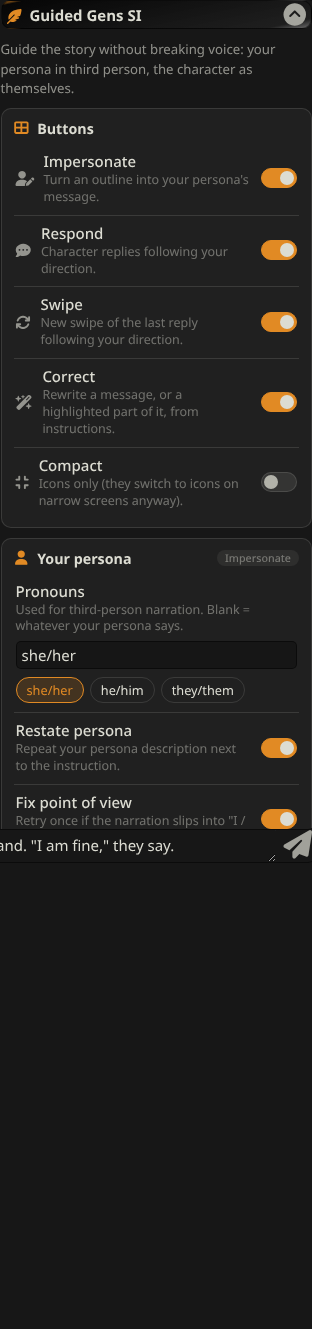
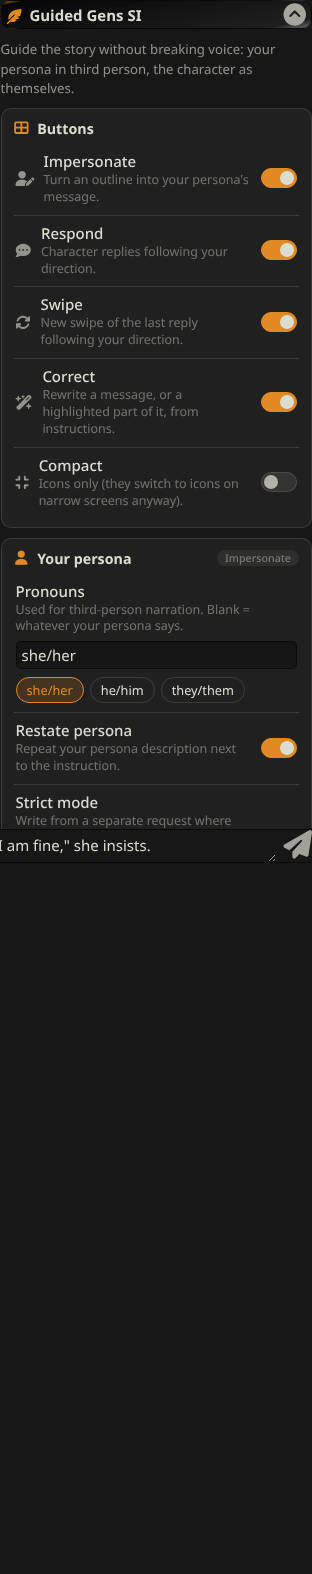
Force impersonation to stay on the user's side
Add Strict mode: a separate generateRaw request (Chat Completion) where
the model is told it only writes for {{user}}, with the character card,
scenario and world info as reference and the chat as a transcript, plus
an optional prefill of the persona's name. Detect results that read
like {{char}}'s reply (second-person narration, character openings,
character-dominated narration) and retry them once in strict mode.

Claude-Session: https://claude.ai/code/session_01W9Q53hTj4MAFdCsrz4bzBP

diff --git a/index.js b/index.js
@@ -1,12 +1,16 @@
 import {
+    buildTranscript,
     cleanImpersonation,
     collectVoiceSamples,
     countFirstPerson,
     fillTemplate,
     formatSamples,
     hasPovSlip,
+    joinPrefill,
+    looksLikeCharReply,
 } from './src/text.js';
 import {
+    CHAR_RETRY_NOTE,
     DEFAULT_CORRECT,
     DEFAULT_CORRECT_SELECTION,
     DEFAULT_GUIDE,
@@ -14,6 +18,8 @@ import {
     IMPERSONATE_DIRECTION_EMPTY,
     IMPERSONATE_DIRECTION_WITH_INPUT,
     POV_RETRY_NOTE,
+    STRICT_STORY,
+    STRICT_SYSTEM,
 } from './src/prompts.js';
 import { openCorrections } from './src/corrections.js';
 import { mountSettings, renderBar, setBusy, setImpersonateUndo, setStatus } from './src/ui.js';
@@ -37,6 +43,8 @@ const DEFAULTS = Object.freeze({
     userVoiceSamples: 5,
     charVoiceSamples: 4,
     povRetry: true,
+    strictImpersonate: false,
+    strictPrefillName: false,
     guideDepth: 0,
     guideRole: 'system',
     impersonateTemplate: '',
@@ -110,7 +118,7 @@ function syncImpersonateButton() {
 
 // --- Impersonate (third person) ---------------------------------------------
 
-function buildImpersonatePrompt(input, { retry = false } = {}) {
+function buildImpersonatePrompt(input, { reason = null } = {}) {
     const s = settings();
     const c = ctx();
 
@@ -131,7 +139,8 @@ function buildImpersonatePrompt(input, { retry = false } = {}) {
         pronouns,
         input: input.trim(),
     });
-    if (retry) prompt += fillTemplate(POV_RETRY_NOTE, { pronouns });
+    if (reason === 'pov') prompt += fillTemplate(POV_RETRY_NOTE, { pronouns });
+    if (reason === 'char') prompt += CHAR_RETRY_NOTE;
 
     return substitute(prompt);
 }
@@ -165,6 +174,78 @@ async function runImpersonation(prompt) {
     return cleanImpersonation(textarea().value, c.name1, otherSpeakerNames());
 }
 
+// Strict mode is only possible with Chat Completion; Text Completion impersonation
+// already ends the prompt with "{{user}}:", which keeps the model on the user's side.
+const canUseStrict = () => ctx().mainApi === 'openai';
+
+/** Character card, other names and world info, as reference for strict mode. */
+async function strictReference() {
+    const c = ctx();
+    let fields = {};
+    try {
+        fields = c.getCharacterCardFields?.() ?? {};
+    } catch {
+        // Older SillyTavern: fall back to the raw card below.
+    }
+    const character = c.characters[c.characterId];
+    const description = fields.description ?? character?.description ?? '';
+    const personality = fields.personality ?? character?.personality ?? '';
+    const scenario = fields.scenario ?? character?.scenario ?? '';
+
+    const parts = [];
+    if (description.trim()) parts.push(`About ${c.name2} (reference only; never write as them):\n${description.trim()}`);
+    if (personality.trim()) parts.push(`${c.name2}'s personality: ${personality.trim()}`);
+    if (scenario.trim()) parts.push(`Scenario: ${scenario.trim()}`);
+    if (c.groupId) parts.push(`Other characters in the story: ${otherSpeakerNames().join(', ')}.`);
+
+    try {
+        const chatForWI = c.chat.filter(m => !m.is_system).map(m => `${m.name}: ${m.mes}`).reverse();
+        const wi = await c.getWorldInfoPrompt?.(chatForWI, c.maxContext, true, {
+            personaDescription: fields.persona ?? '',
+            characterDescription: description,
+            characterPersonality: personality,
+            characterDepthPrompt: '',
+            scenario,
+            creatorNotes: '',
+        });
+        if (wi?.worldInfoString?.trim()) parts.push(`World details:\n${wi.worldInfoString.trim()}`);
+    } catch (error) {
+        console.warn(LOG, 'World info skipped in strict mode', error);
+    }
+    return parts.length ? `\n${parts.join('\n\n')}\n` : '';
+}
+
+/** Impersonation from a separate request where the model never plays {{char}}. */
+async function runStrictImpersonation(prompt) {
+    const c = ctx();
+    const system = substitute(fillTemplate(STRICT_SYSTEM, { card: await strictReference() }));
+    const responseTokens = Number(c.chatCompletionSettings?.openai_max_tokens) || 500;
+    // About 3.2 characters per token, leaving room for the reply and the instructions.
+    const budget = Math.max(4000, ((Number(c.maxContext) || 8192) - responseTokens - 1000) * 3.2 - system.length - prompt.length);
+    const story = fillTemplate(STRICT_STORY, { transcript: buildTranscript(c.chat, budget) });
+    const prefill = settings().strictPrefillName ? c.name1 : '';
+
+    setInput('');
+    const output = await c.generateRaw({
+        prompt: [{ role: 'user', content: story + prompt }],
+        systemPrompt: system,
+        prefill,
+    });
+    return cleanImpersonation(joinPrefill(prefill, output), c.name1, otherSpeakerNames());
+}
+
+function impersonationSlip(text) {
+    if (!text) return null;
+    if (looksLikeCharReply(text, ctx().name1, otherSpeakerNames())) return 'char';
+    if (hasPovSlip(text)) return 'pov';
+    return null;
+}
+
+function slipScore(text) {
+    if (!text) return Infinity;
+    return (looksLikeCharReply(text, ctx().name1, otherSpeakerNames()) ? 100 : 0) + countFirstPerson(text);
+}
+
 async function guidedImpersonate() {
     const current = textarea().value;
 
@@ -178,17 +259,25 @@ async function guidedImpersonate() {
 
     await exclusive('ggsi_impersonate', async () => {
         outlineBeforeImpersonation = current;
-        try {
-            let result = await runImpersonation(buildImpersonatePrompt(current));
+        const s = settings();
+        const c = ctx();
+        const attempt = ({ strict, reason = null }) => {
+            const prompt = buildImpersonatePrompt(current, { reason });
+            return strict ? runStrictImpersonation(prompt) : runImpersonation(prompt);
+        };
 
-            if (result && settings().povRetry && hasPovSlip(result)) {
-                console.info(LOG, 'Impersonation slipped into first person; retrying once.');
-                setStatus('Fixing point of view…');
-                const retry = await runImpersonation(buildImpersonatePrompt(current, { retry: true }));
-                if (retry && countFirstPerson(retry) < countFirstPerson(result)) result = retry;
-                if (hasPovSlip(result)) {
-                    notify('warning', 'The model kept slipping into first person. You may want to edit or retry.');
-                }
+        try {
+            const strict = s.strictImpersonate && canUseStrict();
+            let result = await attempt({ strict });
+            let slip = impersonationSlip(result);
+
+            if (slip && s.povRetry) {
+                console.info(LOG, `Impersonation slipped (${slip}); retrying once.`);
+                setStatus(slip === 'char' ? `Keeping it as ${c.name1}…` : 'Fixing point of view…');
+                // A reply written as {{char}} is retried in strict mode, which is much harder to derail.
+                const retry = await attempt({ strict: canUseStrict() && (strict || slip === 'char'), reason: slip });
+                if (slipScore(retry) < slipScore(result)) result = retry;
+                slip = impersonationSlip(result);
             }
 
             if (!result) {
@@ -198,6 +287,14 @@ async function guidedImpersonate() {
             }
             setInput(result);
             lastImpersonation = result;
+
+            if (slip === 'char') {
+                notify('warning', canUseStrict() && !strict
+                    ? `This still reads like ${c.name2}'s reply. Turn on Strict mode in the settings, or edit and retry.`
+                    : `This still reads like ${c.name2}'s reply. You may want to edit or retry.`);
+            } else if (slip === 'pov') {
+                notify('warning', 'The model kept slipping into first person. You may want to edit or retry.');
+            }
         } catch (error) {
             setInput(outlineBeforeImpersonation);
             throw error;

diff --git a/src/text.js b/src/text.js
@@ -113,3 +113,60 @@ export function replaceRange(text, start, end, replacement) {
     const trail = selected.slice(lead.length).match(/\s*$/)[0];
     return text.slice(0, start) + lead + replacement + trail + text.slice(end);
 }
+
+function countName(text, name) {
+    if (!name) return 0;
+    return (text.match(new RegExp(`\\b${escapeRegex(name)}\\b`, 'gi')) ?? []).length;
+}
+
+/**
+ * Heuristic: does an impersonation read like {{char}}'s reply instead of
+ * {{user}}'s message? Looks at the narration only (dialogue removed).
+ */
+export function looksLikeCharReply(text, userName, charNames = []) {
+    const trimmed = String(text ?? '').trim();
+    if (!trimmed) return false;
+    const narration = stripDialogue(trimmed).replace(/[*_~]/g, ' ');
+    const opening = trimmed.replace(/^[\s*_"“'(]+/, '');
+    const startsWith = name => !!name && new RegExp(`^${escapeRegex(name)}\\b`, 'i').test(opening);
+
+    if (startsWith(userName)) return false;
+
+    // Character replies address the user as "you" in narration; a third-person user message doesn't.
+    const secondPerson = (narration.match(/\b(?:you|your|yours|yourself)\b/gi) ?? []).length;
+    if (secondPerson >= 2) return true;
+
+    const names = charNames.filter(n => n && n.toLowerCase() !== String(userName ?? '').toLowerCase());
+    const userHits = countName(narration, userName);
+    const charHits = names.reduce((sum, name) => sum + countName(narration, name), 0);
+    if (userHits === 0 && names.some(startsWith)) return true;
+    if (userHits === 0 && charHits >= 3) return true;
+    return false;
+}
+
+/**
+ * Takes chat messages newest-first until roughly `maxChars` is used and returns
+ * them oldest-first as "Name: text" lines. Hidden/system messages are skipped.
+ */
+export function buildTranscript(chat, maxChars) {
+    const lines = [];
+    let used = 0;
+    for (let i = chat.length - 1; i >= 0; i--) {
+        const message = chat[i];
+        if (!message || message.is_system || !message.mes) continue;
+        const line = `${message.name}: ${message.mes.trim()}`;
+        if (used + line.length > maxChars && lines.length) break;
+        lines.push(line);
+        used += line.length + 2;
+    }
+    return lines.reverse().join('\n\n');
+}
+
+/** Joins a prefill and the model's continuation without doubling the prefill. */
+export function joinPrefill(prefill, output) {
+    const out = String(output ?? '');
+    if (!prefill) return out.trim();
+    if (out.trimStart().toLowerCase().startsWith(prefill.toLowerCase())) return out.trim();
+    const glue = /^[\s,.;:!?'’-]/.test(out) ? '' : ' ';
+    return `${prefill}${glue}${out}`.trim();
+}

diff --git a/test/text.test.js b/test/text.test.js
@@ -59,3 +59,38 @@ test('replaceRange keeps the selection whitespace', async () => {
     const text = 'One. Two three. Four.';
     assert.equal(replaceRange(text, 4, 16, 'Changed.'), 'One. Changed. Four.');
 });
+
+test('looksLikeCharReply spots replies written as the character', async () => {
+    const { looksLikeCharReply } = await import('../src/text.js');
+    const chars = ['Seraphina'];
+    // Proper third-person user messages.
+    assert.equal(looksLikeCharReply('Mara steps forward. "I am fine," she says.', 'Mara', chars), false);
+    assert.equal(looksLikeCharReply('*She shrugs and looks at Seraphina.* "Whatever."', 'Mara', chars), false);
+    assert.equal(looksLikeCharReply('Mara glances at Seraphina. Seraphina is smiling; Seraphina always smiles.', 'Mara', chars), false);
+    // Slid into the character's reply.
+    assert.equal(looksLikeCharReply('*Seraphina tilts her head.* "Are you sure?" She takes your hand.', 'Mara', chars), true);
+    assert.equal(looksLikeCharReply('She smiles at you and squeezes your hand.', 'Mara', chars), true);
+    assert.equal(looksLikeCharReply('Seraphina sighs. "Fine."', 'Mara', chars), true);
+    assert.equal(looksLikeCharReply('', 'Mara', chars), false);
+});
+
+test('buildTranscript keeps the newest messages within budget', async () => {
+    const { buildTranscript } = await import('../src/text.js');
+    const chat = [
+        { name: 'A', mes: 'x'.repeat(50) },
+        { name: 'B', mes: 'hidden', is_system: true },
+        { name: 'A', mes: 'second' },
+        { name: 'C', mes: 'third' },
+    ];
+    assert.equal(buildTranscript(chat, 30), 'A: second\n\nC: third');
+    assert.equal(buildTranscript(chat, 1), 'C: third');
+});
+
+test('joinPrefill avoids doubling the name', async () => {
+    const { joinPrefill } = await import('../src/text.js');
+    assert.equal(joinPrefill('Mara', ' steps forward.'), 'Mara steps forward.');
+    assert.equal(joinPrefill('Mara', "'s eyes narrow."), "Mara's eyes narrow.");
+    assert.equal(joinPrefill('Mara', 'Mara steps forward.'), 'Mara steps forward.');
+    assert.equal(joinPrefill('Mara', 'steps forward.'), 'Mara steps forward.');
+    assert.equal(joinPrefill('', ' steps.'), 'steps.');
+});

diff --git a/src/prompts.js b/src/prompts.js
@@ -21,6 +21,20 @@ export const IMPERSONATE_DIRECTION_EMPTY = `{{user}}'s next move is up to you: c
 export const POV_RETRY_NOTE = `
 [Important: a previous draft slipped into first person. Every sentence of narration must refer to {{user}} in the third person ({{pronouns}} or their name), never "I", "me" or "my".]`;
 
+export const CHAR_RETRY_NOTE = `
+[Important: a previous draft was written as {{char}}. This message belongs to {{user}}. Write only what {{user}} says and does, narrated in third person, and do not continue {{char}}'s reply.]`;
+
+// Strict mode: a separate request where the model never plays {{char}}.
+export const STRICT_SYSTEM = `You are co-writing an interactive story with the user. Right now your only job is to write the next message for {{user}}, the user's character. You are not {{char}}, and you never write {{char}}'s (or anyone else's) words, actions or reactions; the other side of the story is written separately.
+{{card}}`;
+
+export const STRICT_STORY = `Story so far (oldest first):
+<story>
+{{transcript}}
+</story>
+
+`;
+
 export const DEFAULT_GUIDE = `[Author's note for {{char}}'s next reply. This is private direction: never mention, quote or reply to it.
 What should happen: {{input}}
 {{voice}}

diff --git a/src/ui.js b/src/ui.js
@@ -151,7 +151,9 @@ function settingsHtml() {
           </div>
         </div>
         ${toggle('includePersona', 'Restate persona', 'Repeat your persona description next to the instruction.')}
-        ${toggle('povRetry', 'Fix point of view', 'Retry once if the narration slips into "I / me / my".')}
+        ${toggle('strictImpersonate', 'Strict mode', 'Write from a separate request where the model never plays the character. The strongest fix if it keeps answering as them. Leaves out your preset\'s prompts. Chat Completion only.')}
+        ${toggle('strictPrefillName', 'Start with your name', 'Strict mode: begin the message with your persona\'s name, locking in third person. Works best with Claude and other models that accept a prefill.')}
+        ${toggle('povRetry', 'Auto-fix slips', 'Retry once if it slips into first person or into the character\'s reply. That retry uses strict mode.')}
         ${slider('userVoiceSamples', 'Voice samples', 'Lines you\'ve spoken in this chat, quoted so it talks like you.', 15)}
       </section>
 

diff --git a/README.md b/README.md
@@ -23,8 +23,23 @@ While one runs, it shows a spinner and a short status, and the other buttons are
 **Impersonate sounds like you, and only in third person**
 - The prompt gives the model your persona description plus a few lines you've actually spoken in this chat, so it copies how *you* talk instead of a generic voice.
 - It has strict rules: third-person narration only, only your persona's own words and actions, and nothing written for the character.
-- The result is checked. If the narration slips into "I/me/my", it retries once automatically (you can turn this off). It also removes a leading `YourName:` and cuts off anything after the model starts a `CharName:` line.
+- The result is checked. If the narration slips into "I/me/my", **or the result reads like the character's reply instead of yours**, it retries once automatically (you can turn this off). It also removes a leading `YourName:` and cuts off anything after the model starts a `CharName:` line.
 - Set your pronouns in the settings (e.g. `she/her`) so the model never has to guess.
+
+**Stopping it from answering as the character (Strict mode)**
+
+With Chat Completion APIs (Claude, GPT, Gemini, OpenRouter, …) the model spends the whole chat playing the character, and your preset usually says "write {{char}}'s next reply". SillyTavern's impersonation only adds a note at the end, so models often slide back into the character's reply.
+
+**Strict mode** sends impersonation as a separate request where the model never plays the character:
+- The system prompt says it writes only for your persona and is *not* the character.
+- The character card, scenario and active world info are included as reference only.
+- The story so far is a transcript, followed by your outline and the third-person rules.
+
+**Start with your name** goes one step further and makes the model begin with your persona's name, which locks in third person. That works best with Claude and other models that accept a prefill.
+
+Even with Strict mode off, **Auto-fix slips** notices when a result reads like the character's reply and retries that one in strict mode. It looks for narration that calls you "you", openings with the character's name, and narration that's mostly about the character.
+
+Strict mode leaves out your preset's prompts (main prompt, jailbreak and so on). If your model needs those to write freely, keep Strict mode off and rely on Auto-fix. With Text Completion APIs, SillyTavern's impersonation already ends the prompt with `YourName:`, which keeps the model on your side, so Strict mode isn't needed (or used) there.
 
 **Response and swipe sound like the character**
 - The original sent your text as a bare instruction (`[Take the following into special consideration…]`) right after the last message, so models often answered the note, or switched into an assistant voice.
@@ -63,13 +78,15 @@ Requires a recent SillyTavern (1.13.0+ for Guided Swipe). It can run alongside t
 
 Under **Extensions → Guided Gens SI**. Everything follows your SillyTavern theme colours.
 
-<img src="docs/settings.png" alt="Settings panel" width="320">
+<img src="docs/settings.png" alt="Settings panel" width="320"> <img src="docs/settings-persona.png" alt="Persona settings with Strict mode" width="320">
 
 - **Buttons**: show or hide each button; **Compact** for icons only.
 - **Your persona**
   - **Pronouns**: type them or tap a chip (she/her, he/him, they/them). They're used in the third-person rule.
   - **Restate persona**: repeats your persona description right next to the instruction (turn it off to save tokens).
-  - **Fix point of view**: one automatic retry if the narration uses I/me/my.
+  - **Strict mode**: impersonate from a separate request where the model never plays the character (see above). Chat Completion only.
+  - **Start with your name**: in strict mode, begin the message with your persona's name.
+  - **Auto-fix slips**: one automatic retry if the narration uses I/me/my or reads like the character's reply; that retry uses strict mode.
   - **Voice samples**: how many of your spoken lines to quote (0 = off).
 - **Character**
   - **Voice samples**: how many of the character's recent lines to quote (0 = off).
